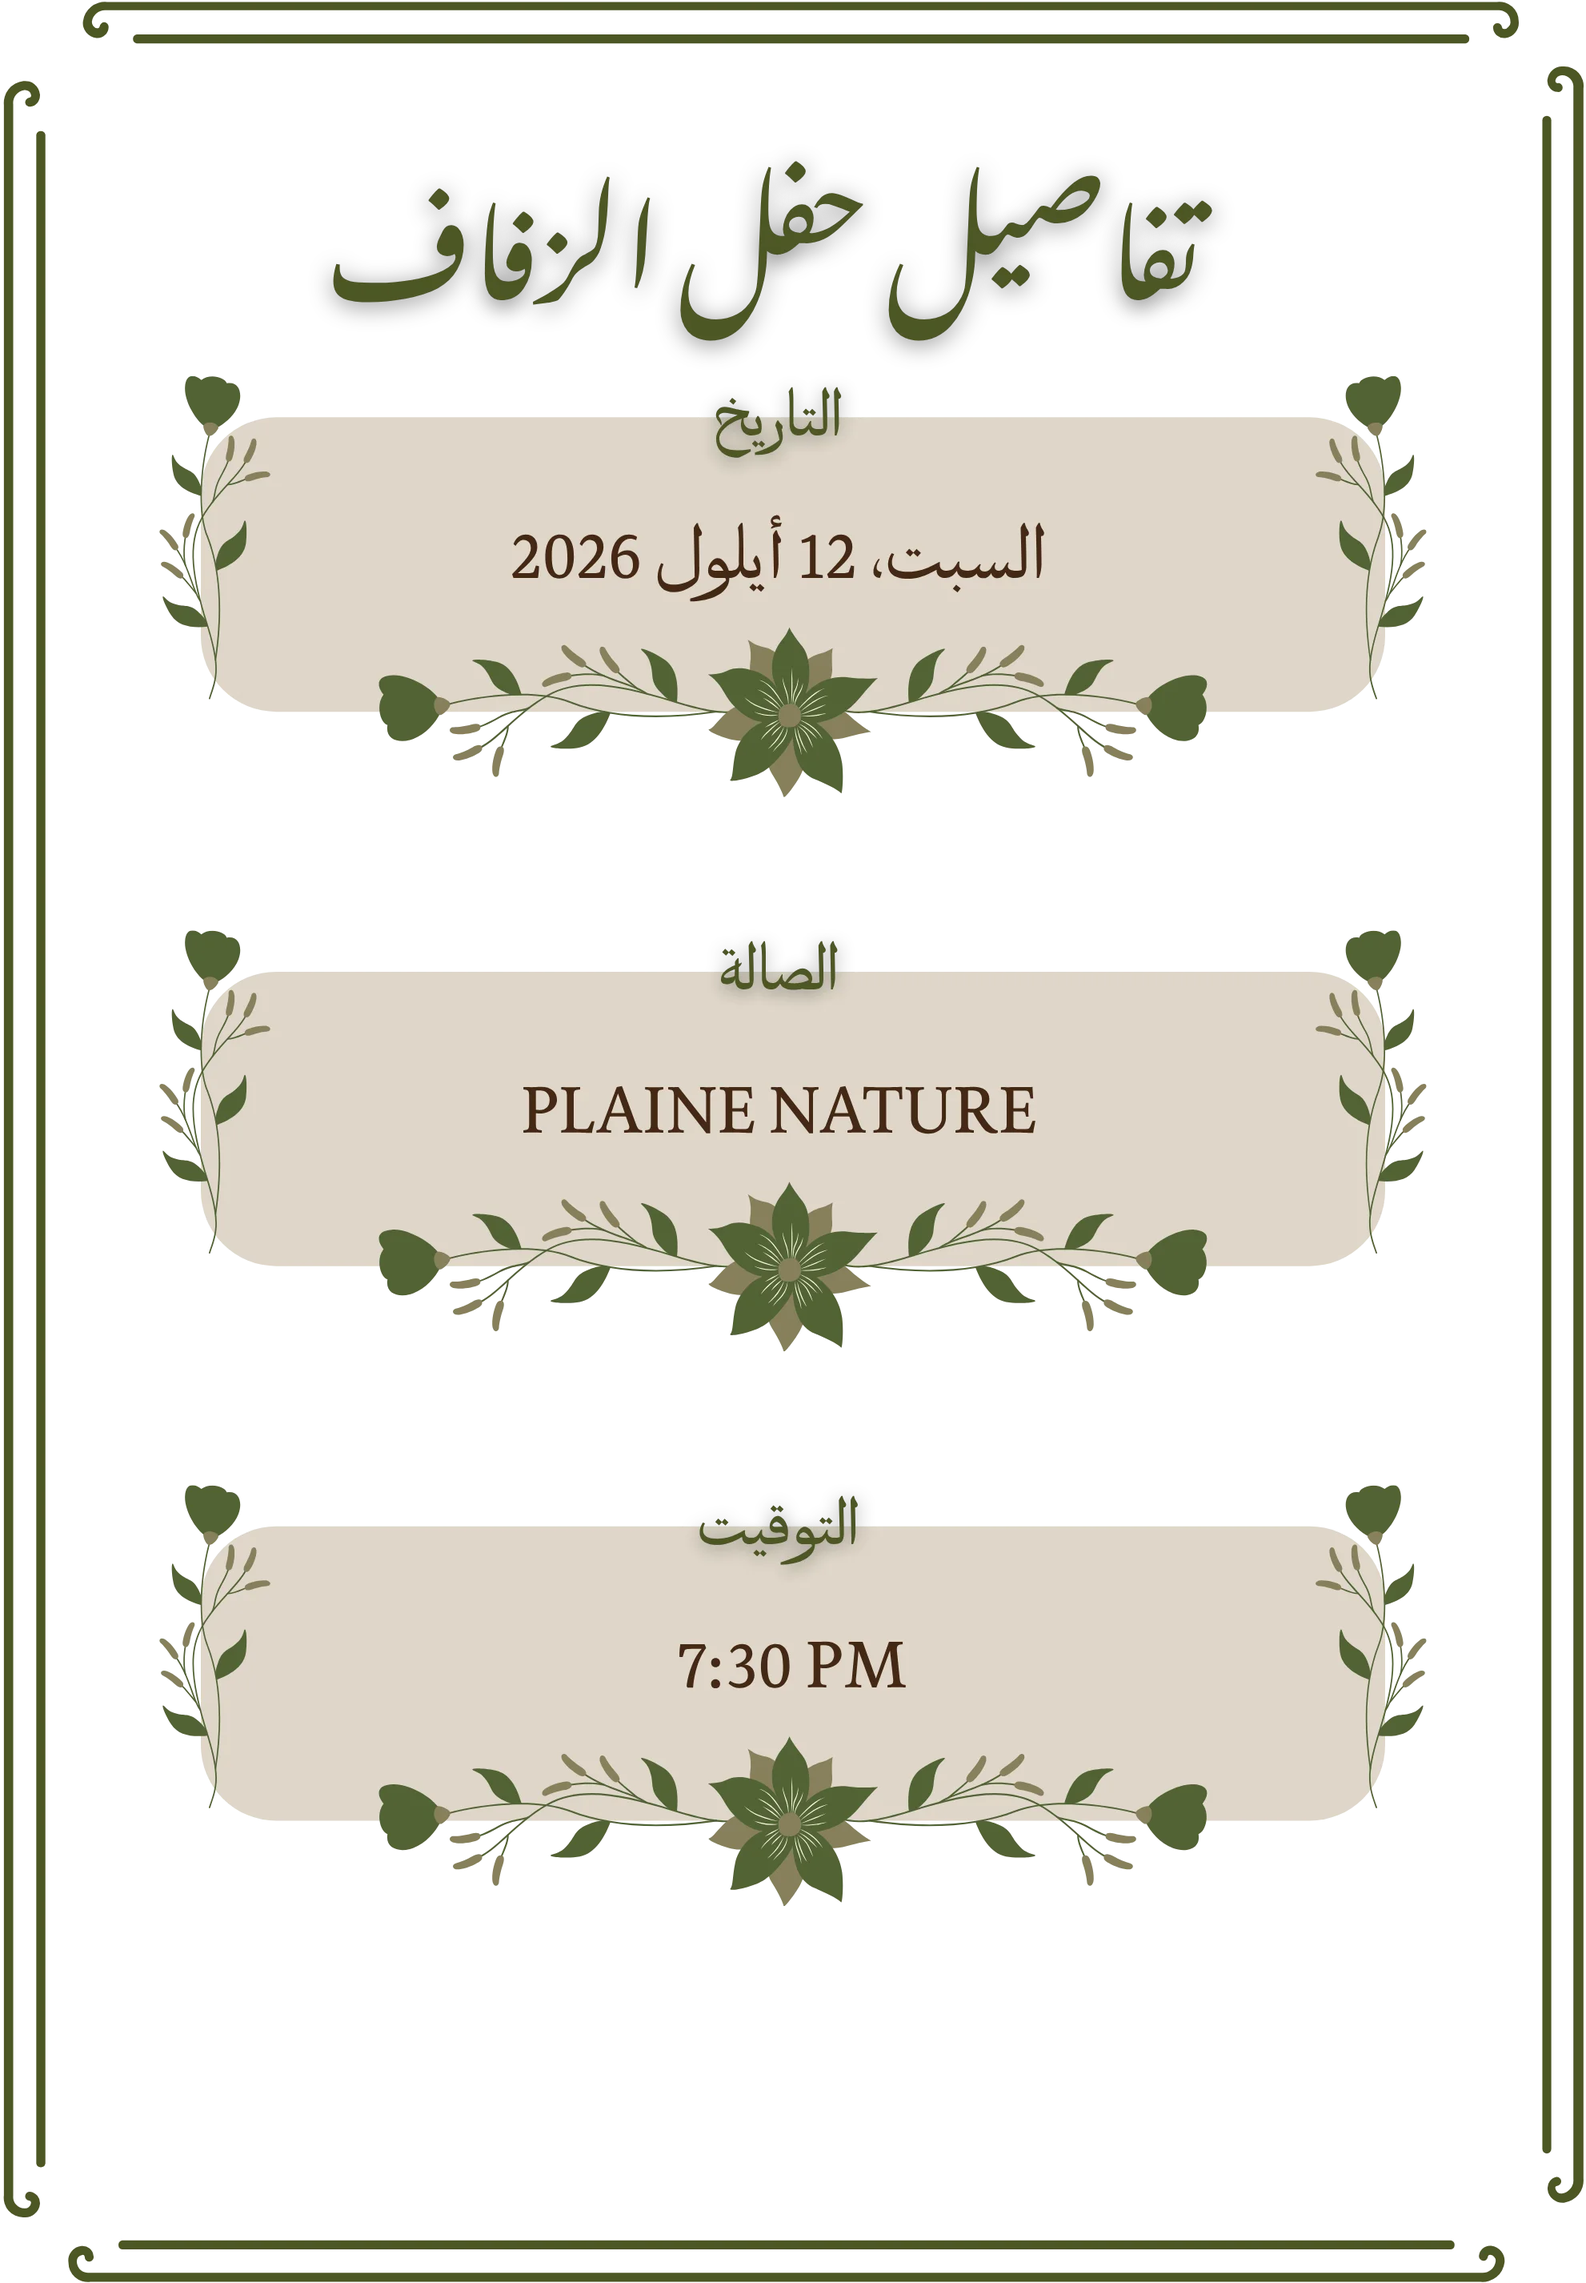
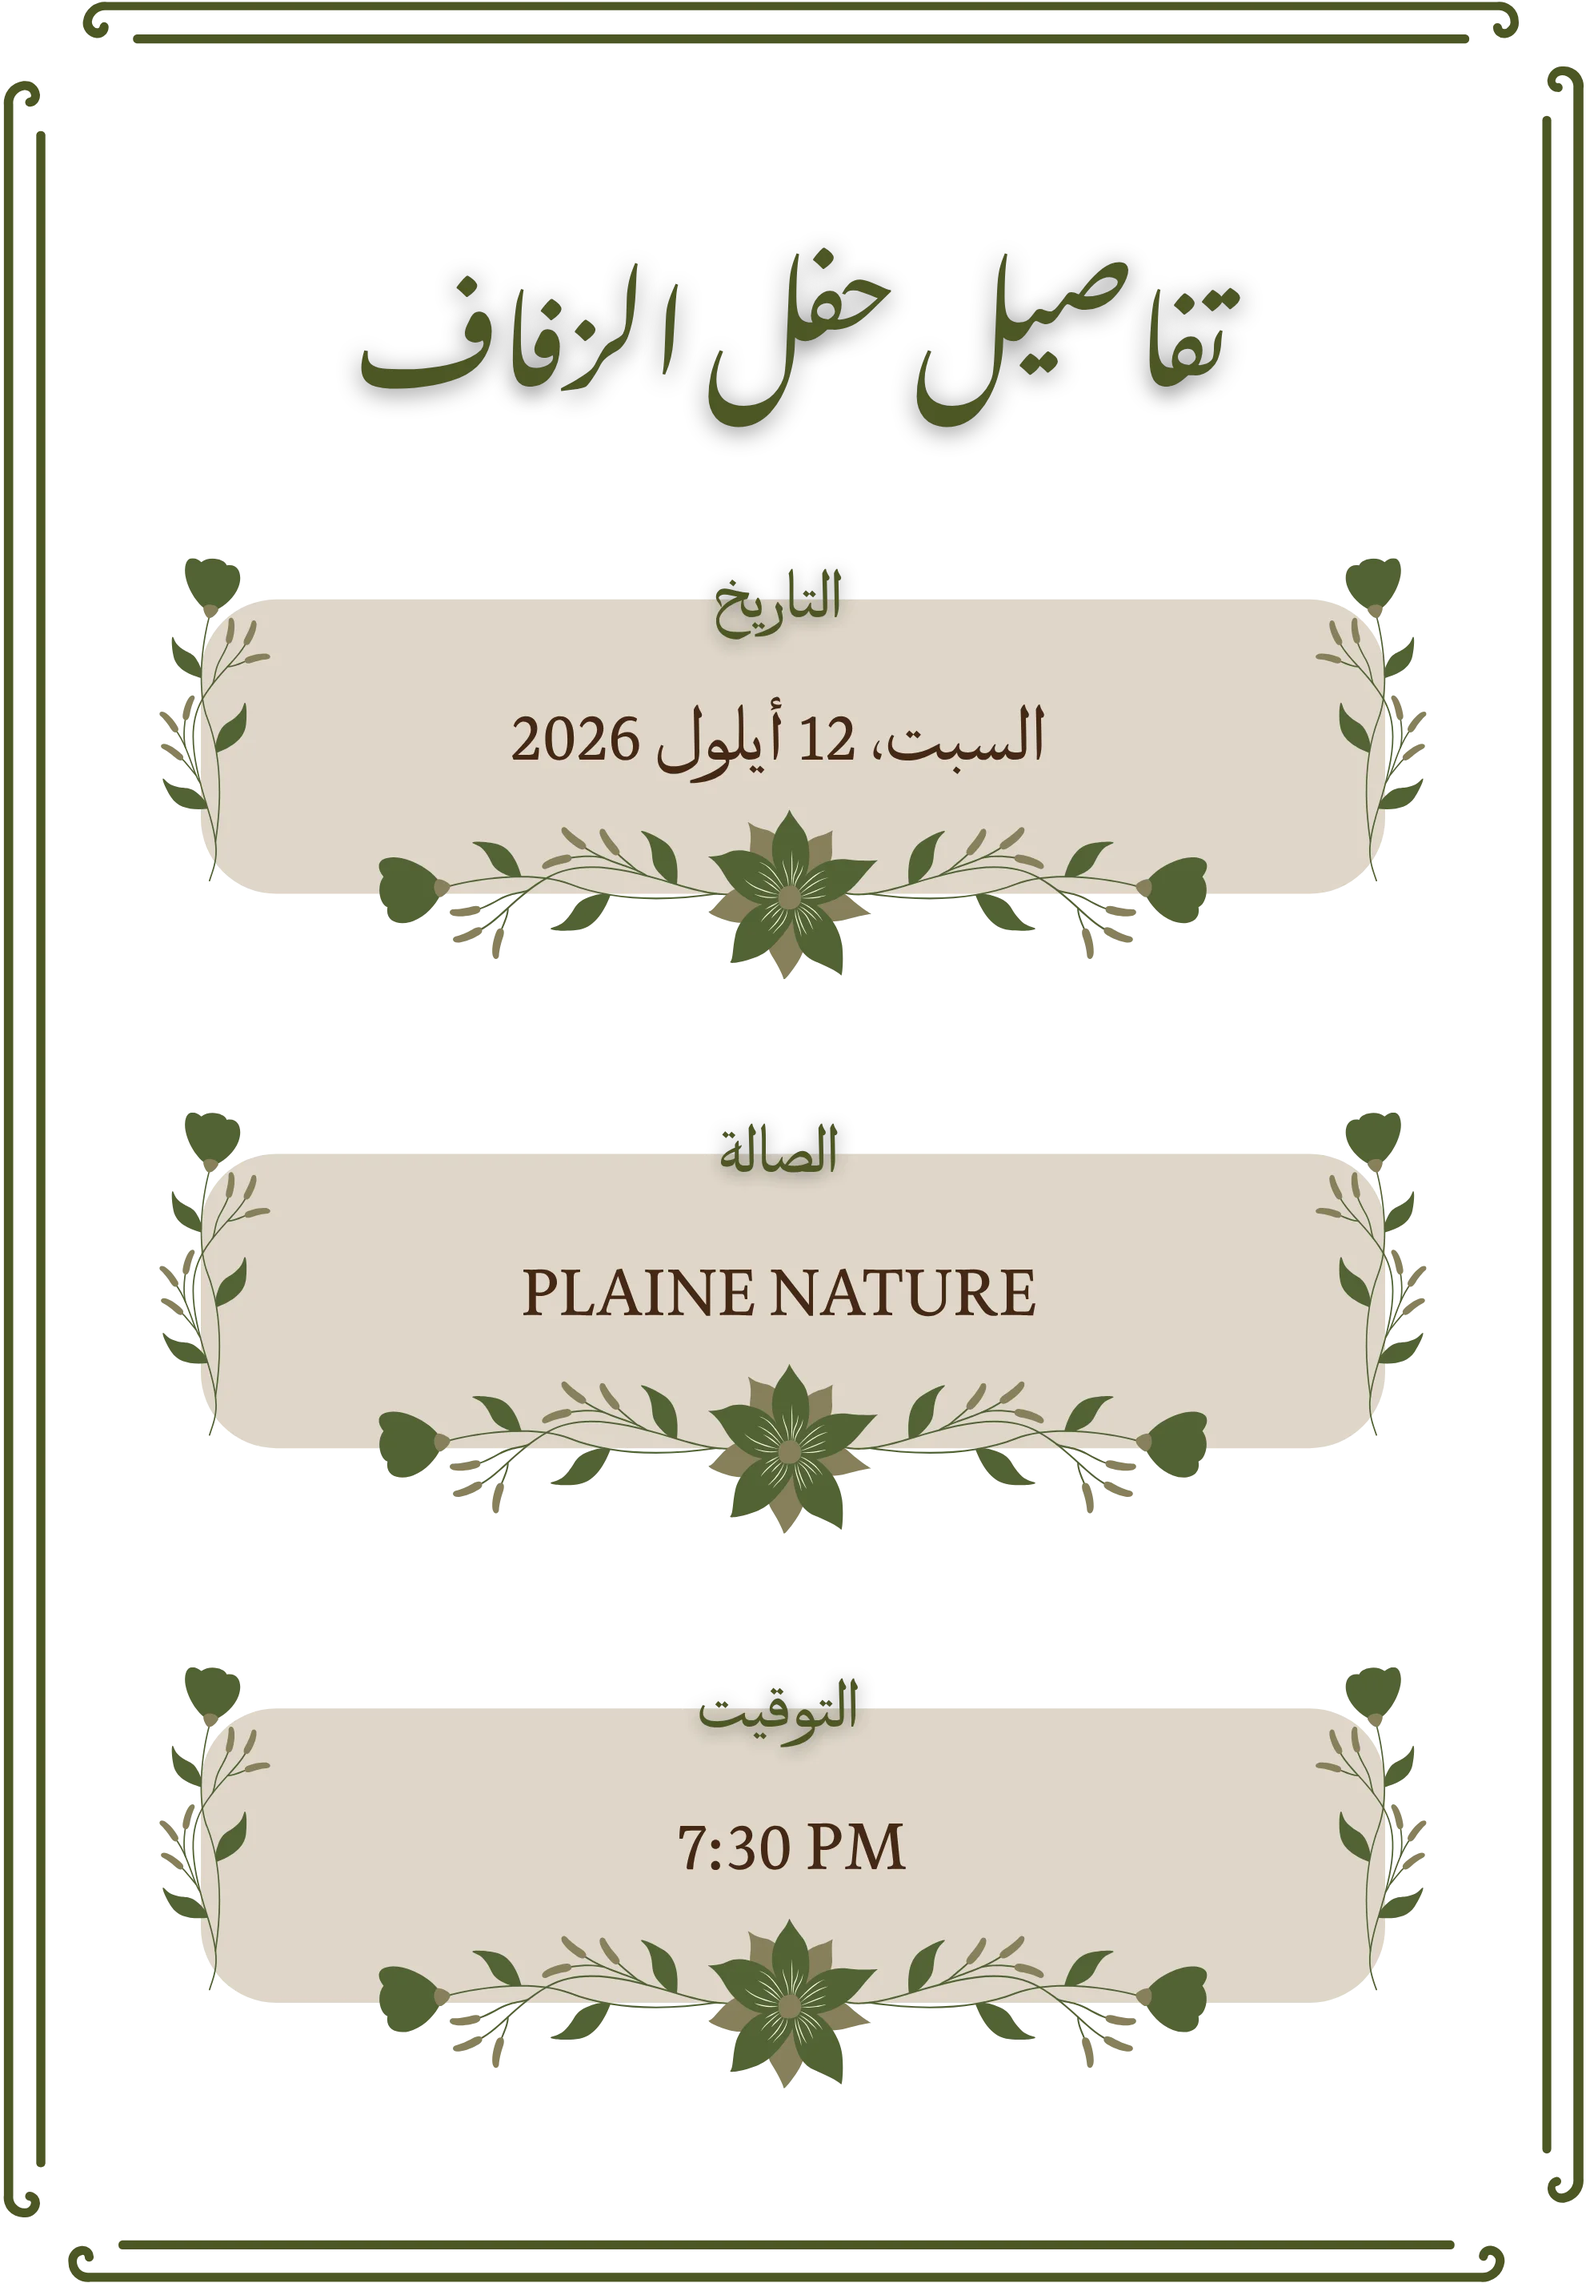
change details figure

diff --git a/Wedding/src/App.jsx b/Wedding/src/App.jsx
@@ -38,8 +38,6 @@ const PAGE_THREE_ASSETS = [
   'flower2-front.webp',
   'details-frame-arabic.webp',
   'details-frame-english.webp',
-  'location-button-arabic.webp',
-  'location-button-english.webp',
   'wedding-logo-optimized.png',
 ]
 
@@ -543,21 +541,6 @@ function App() {
                   />
                 </div>
               </div>
-
-              <a
-                className="location-button-position"
-                href="https://www.google.com/maps/place/Pleine+Nature/@33.8644375,35.5637322,17z/data=!3m1!4b1!4m6!3m5!1s0x151f3d7df6109521:0xf35c713fa9df89e1!8m2!3d33.8644375!4d35.5663125!16s%2Fg%2F11h0t6685?entry=ttu&g_ep=EgoyMDI2MDcyMi4wIKXMDSoASAFQAw%3D%3D"
-                target="_blank"
-                rel="noreferrer"
-                aria-label="Open Pleine Nature location in Google Maps"
-              >
-                <span className="design-animation-layer">
-                  <img
-                    src={asset(`location-button-${invitationLanguage}.webp`)}
-                    alt="Open Barraj Garden location"
-                  />
-                </span>
-              </a>
 
               <div className="details-logo-position">
                 <div className="design-animation-layer">

diff --git a/Wedding/src/App.css b/Wedding/src/App.css
@@ -363,7 +363,6 @@
 .details-page-viewport { margin-top: 0; }
 .details-page-canvas { background: #dfe2e1; }
 .details-frame-position,
-.location-button-position,
 .details-logo-position {
   position: absolute;
 }
@@ -372,23 +371,6 @@
   top: 110px;
   left: 46px;
   width: 988px;
-}
-.location-button-position {
-  z-index: 2;
-  top: 1355px;
-  left: 188px;
-  display: block;
-  width: 704px;
-  color: transparent;
-  -webkit-tap-highlight-color: transparent;
-}
-.location-button-position .design-animation-layer {
-  transform-origin: 50% 50%;
-  animation: language-button-breathe 2.8s ease-in-out infinite;
-}
-.location-button-position:focus-visible {
-  outline: 5px solid var(--olive);
-  outline-offset: 8px;
 }
 .details-logo-position {
   z-index: 2;
